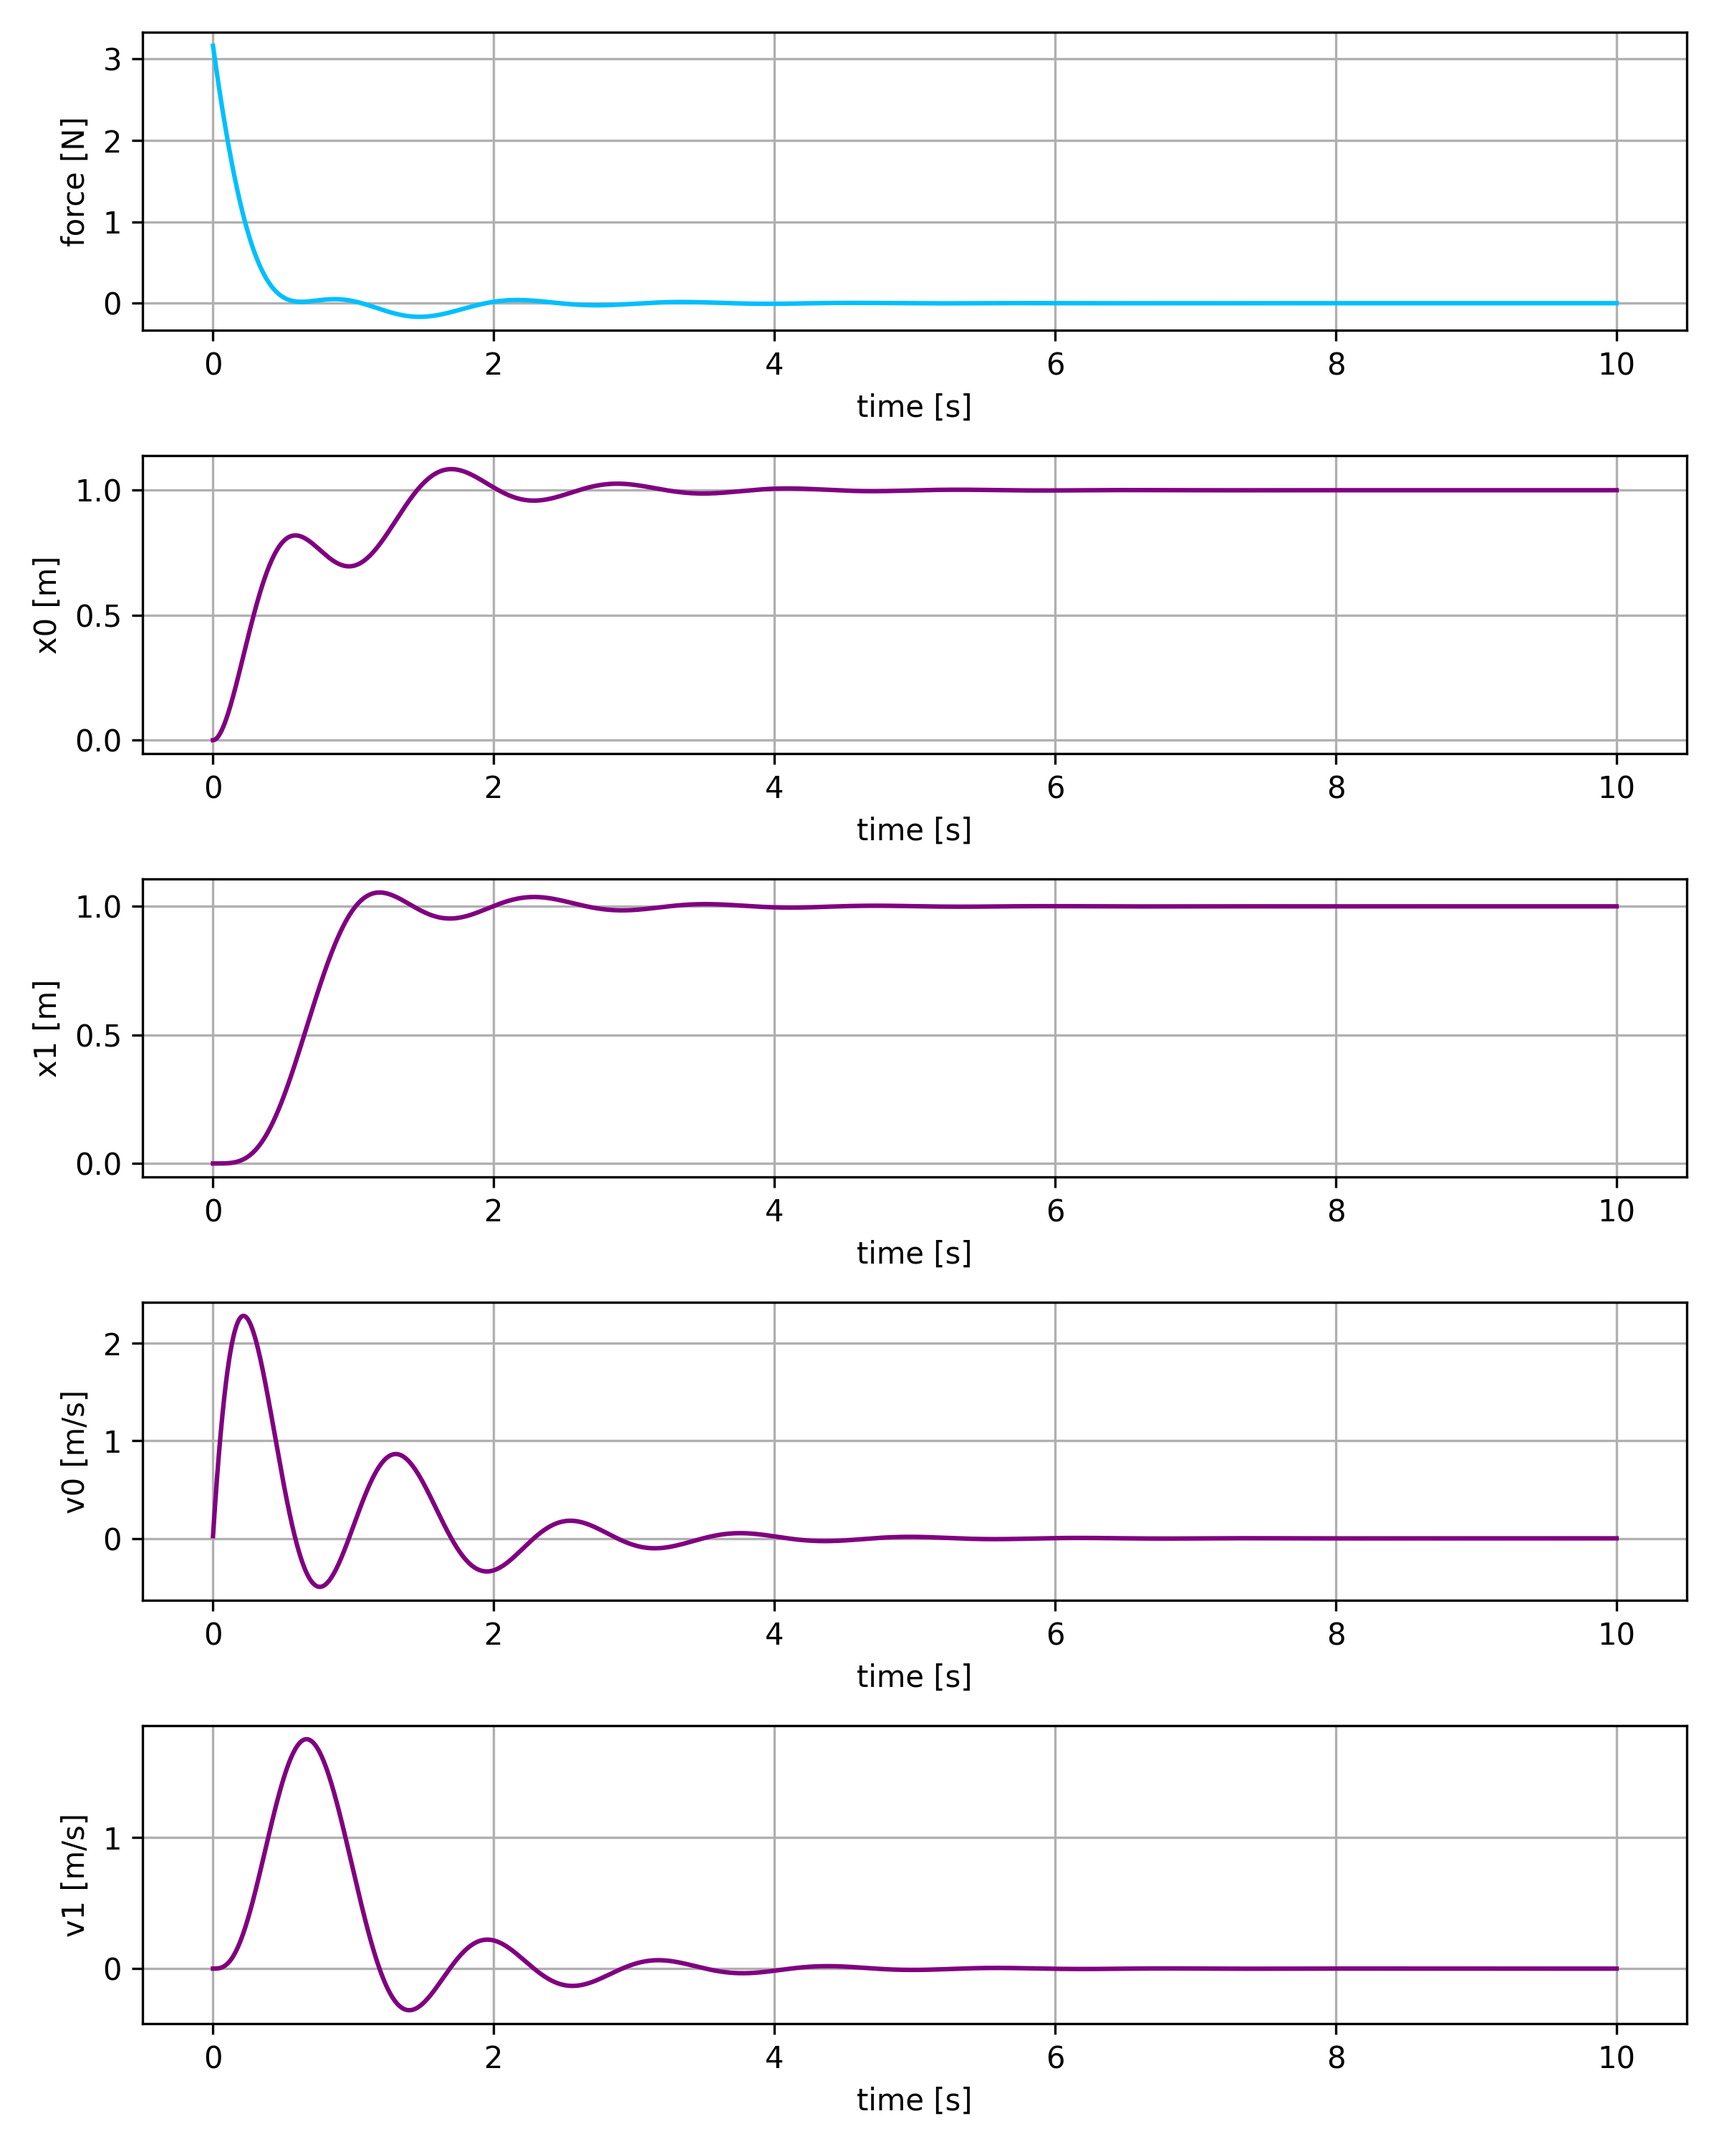
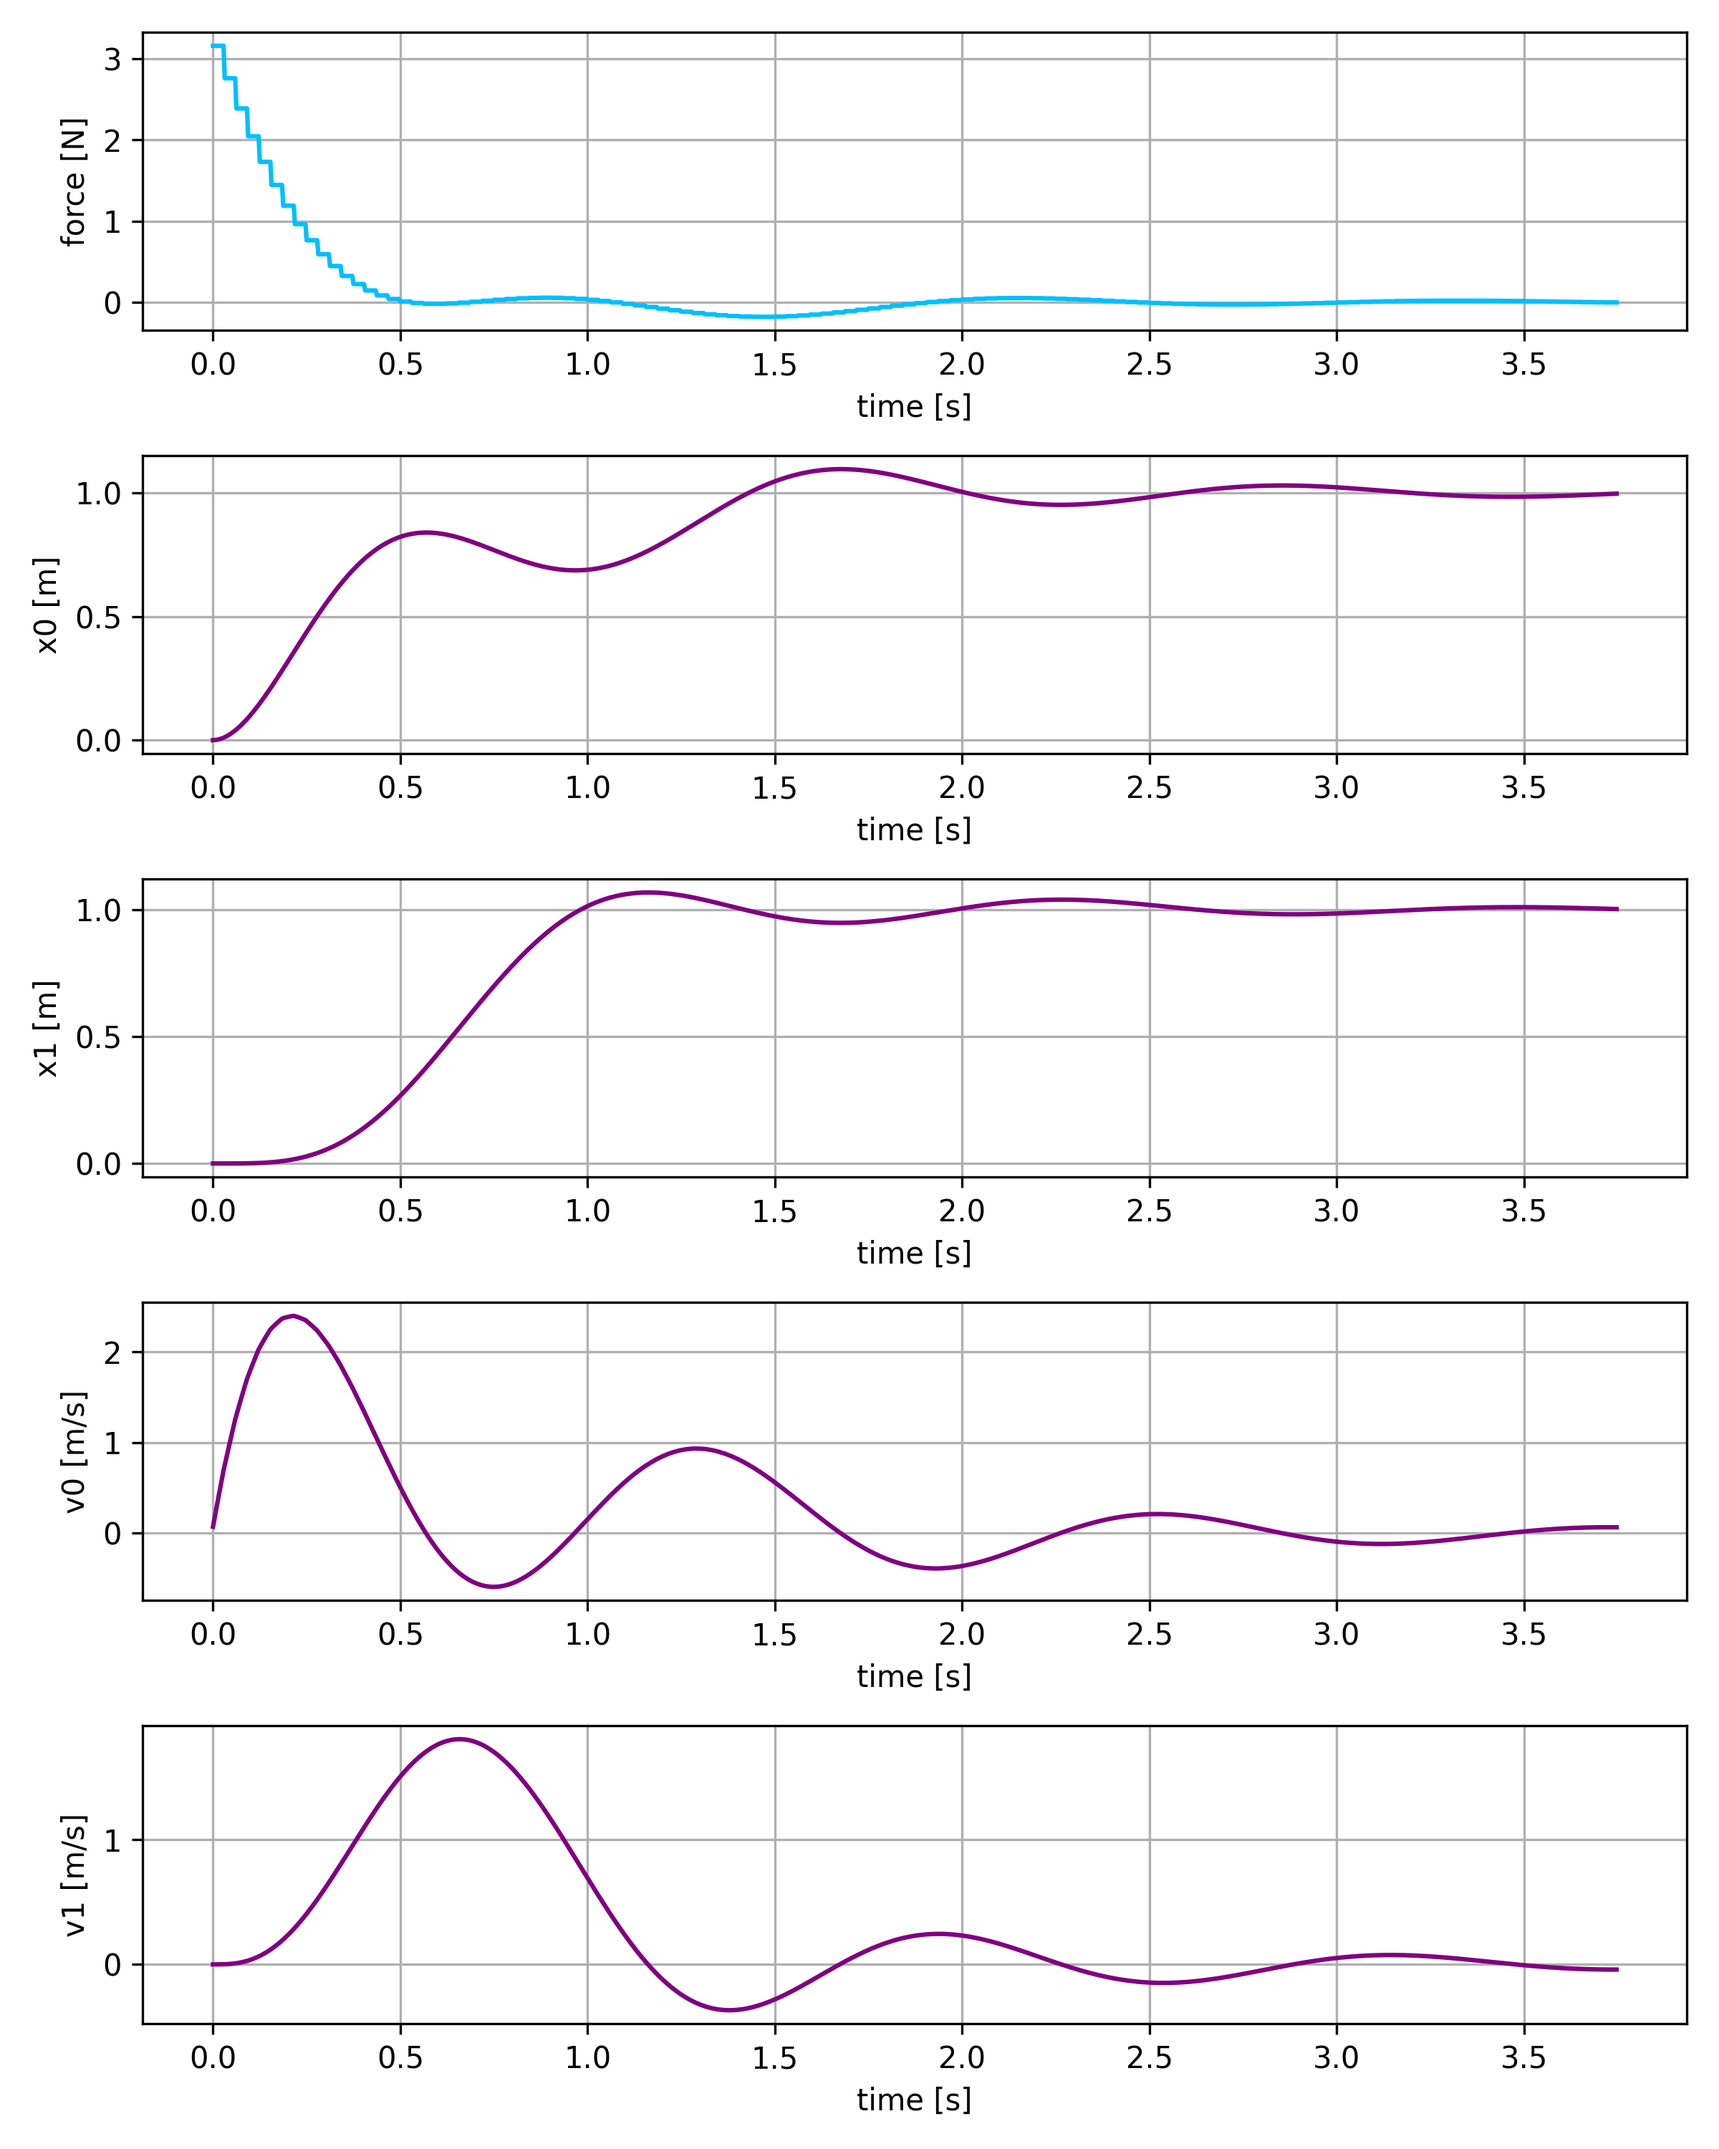
initial, lqr

diff --git a/LibsControl/libs_common/lqr_solver.py b/LibsControl/libs_common/lqr_solver.py
@@ -19,8 +19,8 @@ class LQRSolver:
 
         return self.k, self.g
     
-    def closed_loop_response(self, xr, steps = 500):
-        u_result, x_result = self._closed_loop_response(self.a, self.b, xr, self.k, self.g, steps)
+    def closed_loop_response(self, xr, steps = 500, decimation=1):
+        u_result, x_result = self._closed_loop_response(self.a, self.b, xr, self.k, self.g, steps, decimation)
 
         return u_result, x_result
      
@@ -36,23 +36,6 @@ class LQRSolver:
 
         return re_ol, im_ol, re_cl, im_cl
 
-      
-        plt.clf()
-
-        fig, axs = plt.subplots(1, 1, figsize=(5, 5))
-        
-        axs.set_xlim([1.2*numpy.min(-numpy.abs([re_ol, re_cl])), 1.2*numpy.max(numpy.abs([re_ol, re_cl]))])
-        axs.set_ylim([1.2*numpy.min(-numpy.abs([im_ol, im_cl])), 1.2*numpy.max(numpy.abs([im_ol, im_cl]))])
-        axs.scatter(re_ol, im_ol, label="open loop", s = 50)
-        axs.scatter(re_cl, im_cl, label="closed loop", s = 25)
-
-        axs.grid(True)
-        axs.set_xlabel("real")
-        axs.set_ylabel("imag")
-        axs.legend()
-        plt.tight_layout()
-        plt.savefig(file_name, dpi = 300)
-
     def _find_k(self, a, b, q, r):
         """
         solve the continuous time lqr controller.
@@ -61,7 +44,16 @@ class LQRSolver:
         """
         # continuous-time algebraic Riccati equation solution
         p = scipy.linalg.solve_continuous_are(a, b, q, r)
-    
+
+        '''
+        r_inv = scipy.linalg.inv(r)
+        p = numpy.zeros_like(a)
+        dt = 0.01
+        for i in range(1000):
+            dp = a.T@p + p@a - (p@b)@r_inv@(b.T@p) + q
+            p+= dp*dt
+        '''
+        
         # compute the LQR gain
         k =  scipy.linalg.inv(r) * (b.T@p)
         return k
@@ -79,7 +71,6 @@ class LQRSolver:
 
             x_res   = x_result[-1][i]
 
-
             if numpy.abs(q[i][i]) > 0:
                 g[i]    = step_size/x_res
             else:
@@ -89,13 +80,12 @@ class LQRSolver:
 
         return g
     
-    def _closed_loop_response(self, a, b, xr, k, g = None, steps = 500):
+    def _closed_loop_response(self, a, b, xr, k, g = None, steps = 500, decimation=1):
 
         x  = numpy.zeros((a.shape[0], 1))
 
         x_result = numpy.zeros((steps, a.shape[0]))
         u_result = numpy.zeros((steps, b.shape[1]))
-
 
 
         if g is None:
@@ -105,8 +95,10 @@ class LQRSolver:
             #compute error, include gain scaling matrix
             error = xr*g - x
 
+
             #apply controll law
-            u     = k@error
+            if n%decimation == 0:
+                u     = k@error
             
             #system dynamics step
             x     = x + (a@x + b@u)*self.dt

diff --git a/examples/03_lqr_two_carts/lqr_carts.py b/examples/03_lqr_two_carts/lqr_carts.py
@@ -30,10 +30,10 @@ if __name__ == "__main__":
     mat_b[2][0] = 1.0/m1
 
 
+    f_sampling  = 32.0
+    dt          = 1.0/(10.0*f_sampling)
 
-    dt = 0.001
-
-    steps = 10000
+    steps = 1200
 
     t_result = numpy.arange(steps)*dt
 
@@ -45,7 +45,7 @@ if __name__ == "__main__":
 
 
     #plot system open loop step response
-    u_result, x_result = ds.step_response(amplitudes = 1, steps=10000)
+    u_result, x_result = ds.step_response(amplitudes = 1, steps=steps)
     LibsControl.plot_open_loop_response(t_result, x_result, "results/open_loop_response", labels=["x0 [m]", "x1 [m]", "v0 [m/s]", "v1 [m/s]"])
 
 
@@ -67,10 +67,10 @@ if __name__ == "__main__":
 
 
     #required state
-    xr = numpy.array([[0.0, 5.0, 0.0, 0.0]]).T
+    xr = numpy.array([[0.0, 1.0, 0.0, 0.0]]).T
 
     #step response
-    u_result, x_result = lqr.closed_loop_response(xr, steps)
+    u_result, x_result = lqr.closed_loop_response(xr, steps, 10)
 
     LibsControl.plot_closed_loop_response(t_result, u_result, x_result, "results/closed_loop_response.png", ["force [N]"], ["x0 [m]", "x1 [m]", "v0 [m/s]", "v1 [m/s]"] )
     
